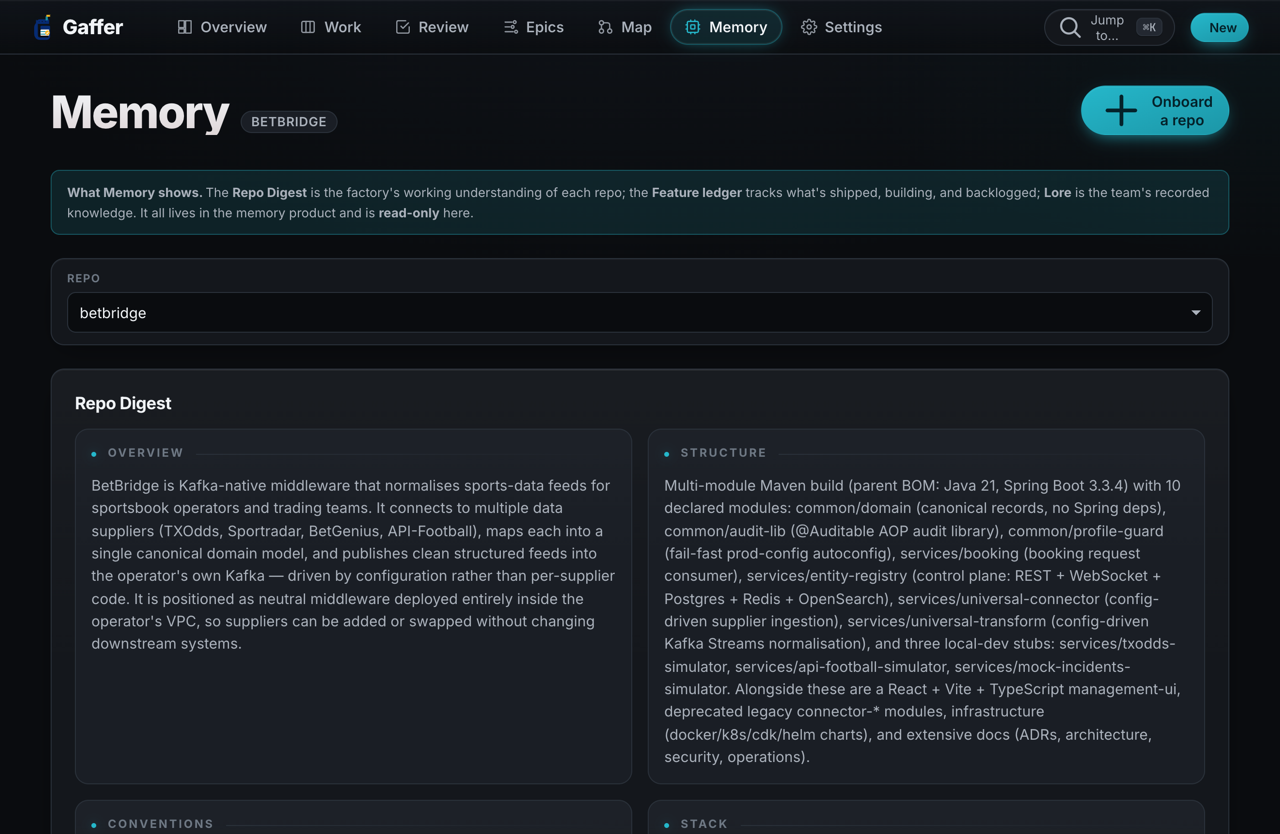
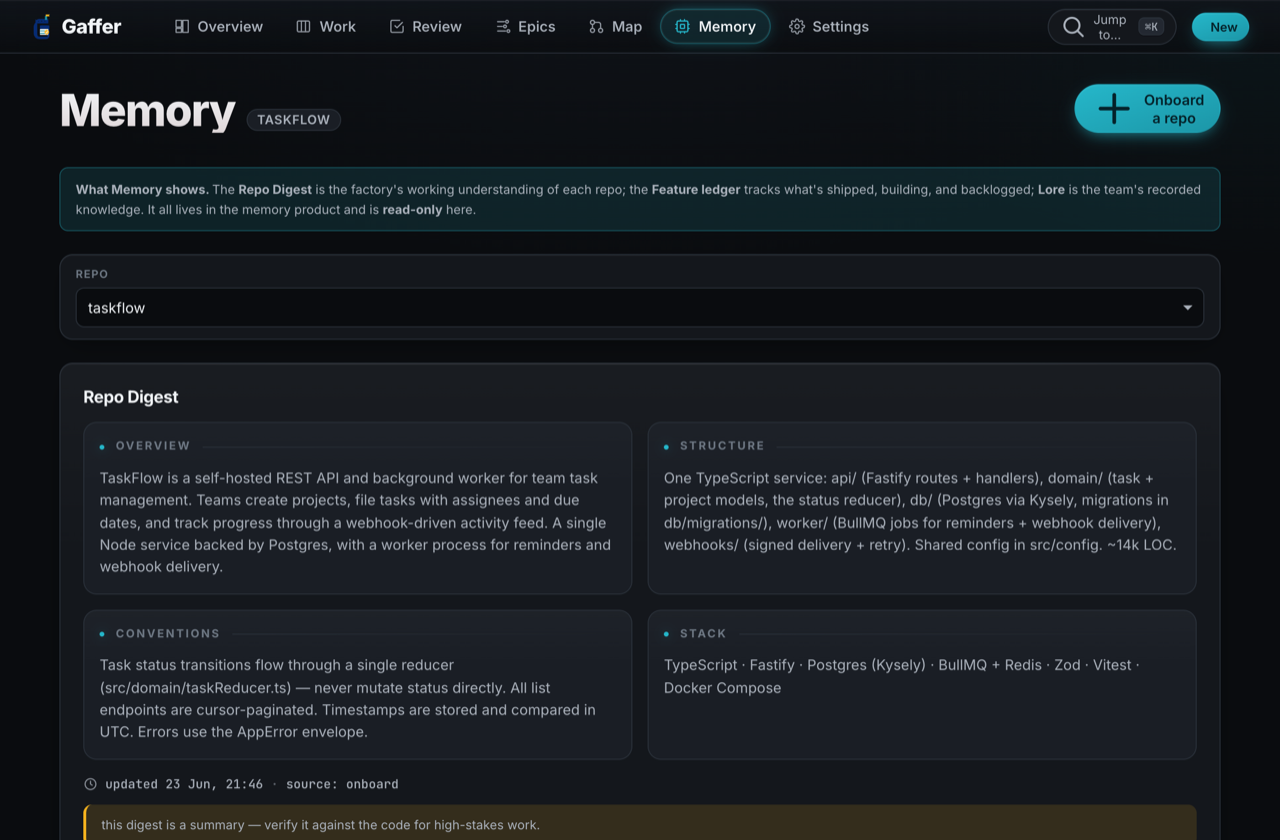
docs: refresh README screenshots with neutral demo data (TaskFlow)
Replace the prior repo-specific shots with a fake 'TaskFlow' demo dataset across
the Overview control room, the work board, and the repo-memory view. Adds a hero
image up top, the board under Architecture, and the digest under Repo Understanding.

diff --git a/README.md b/README.md
@@ -7,6 +7,11 @@
 
 It isn't a chat assistant that writes code. It's a *factory*: a control plane, a runtime, durable memory, and an orchestrator that works tickets through **plan → implement → test → review** and delivers each as a git branch or PR with evidence — then loops on rejection until it's right. Vague or blocked tickets park for a human rather than being forced through.
 
+<p align="center">
+  <img src="docs/img/overview.png" alt="The Gaffer control room — live Overview" width="900">
+  <br><sub><em>The control room: throughput, what needs you now, and per-repo pressure at a glance. (Demo data.)</em></sub>
+</p>
+
 ---
 
 ## Why Gaffer
@@ -19,8 +24,8 @@ Most coding agents are stateless renters: every run starts cold, the "memory" is
 
 ## Architecture
 
-![Gaffer control room](docs/img/overview.png)
-*The Gaffer control room — dispatch queue, live tick log, and review gate.*
+![The Gaffer work board](docs/img/board.png)
+*The work board — tickets across draft → ready → in-progress → review, each with a risk badge and acceptance-criteria progress. (Demo data.)*
 
 Four components, one workspace:
 
@@ -46,6 +51,9 @@ Four components, one workspace:
 Gaffer doesn't re-learn a repo from cold on every run. Memory keeps a living **Repo Digest** (a TLDR of overview / structure / conventions / stack) and a **feature ledger** (`backlog → building → shipped`) per repo, seeded at onboarding and refreshed deterministically as tickets merge — alongside the gated **lore** knowledge base (conventions, decisions, gotchas, cross-repo boundaries). Onboarding runs a skill-driven `claude -p` pass that produces a real digest, a feature inventory, and cited lore drafts grounded in the actual code.
 
 The digest is **a map, not the territory** — a fast orientation that the factory verifies against the real code for high-stakes work, never a substitute for it.
+
+![Gaffer repo memory](docs/img/memory.png)
+*Repo memory for an onboarded project — the generated digest, the feature ledger (shipped / building / backlog), and gated lore. (Demo data.)*
 
 ## Install
 